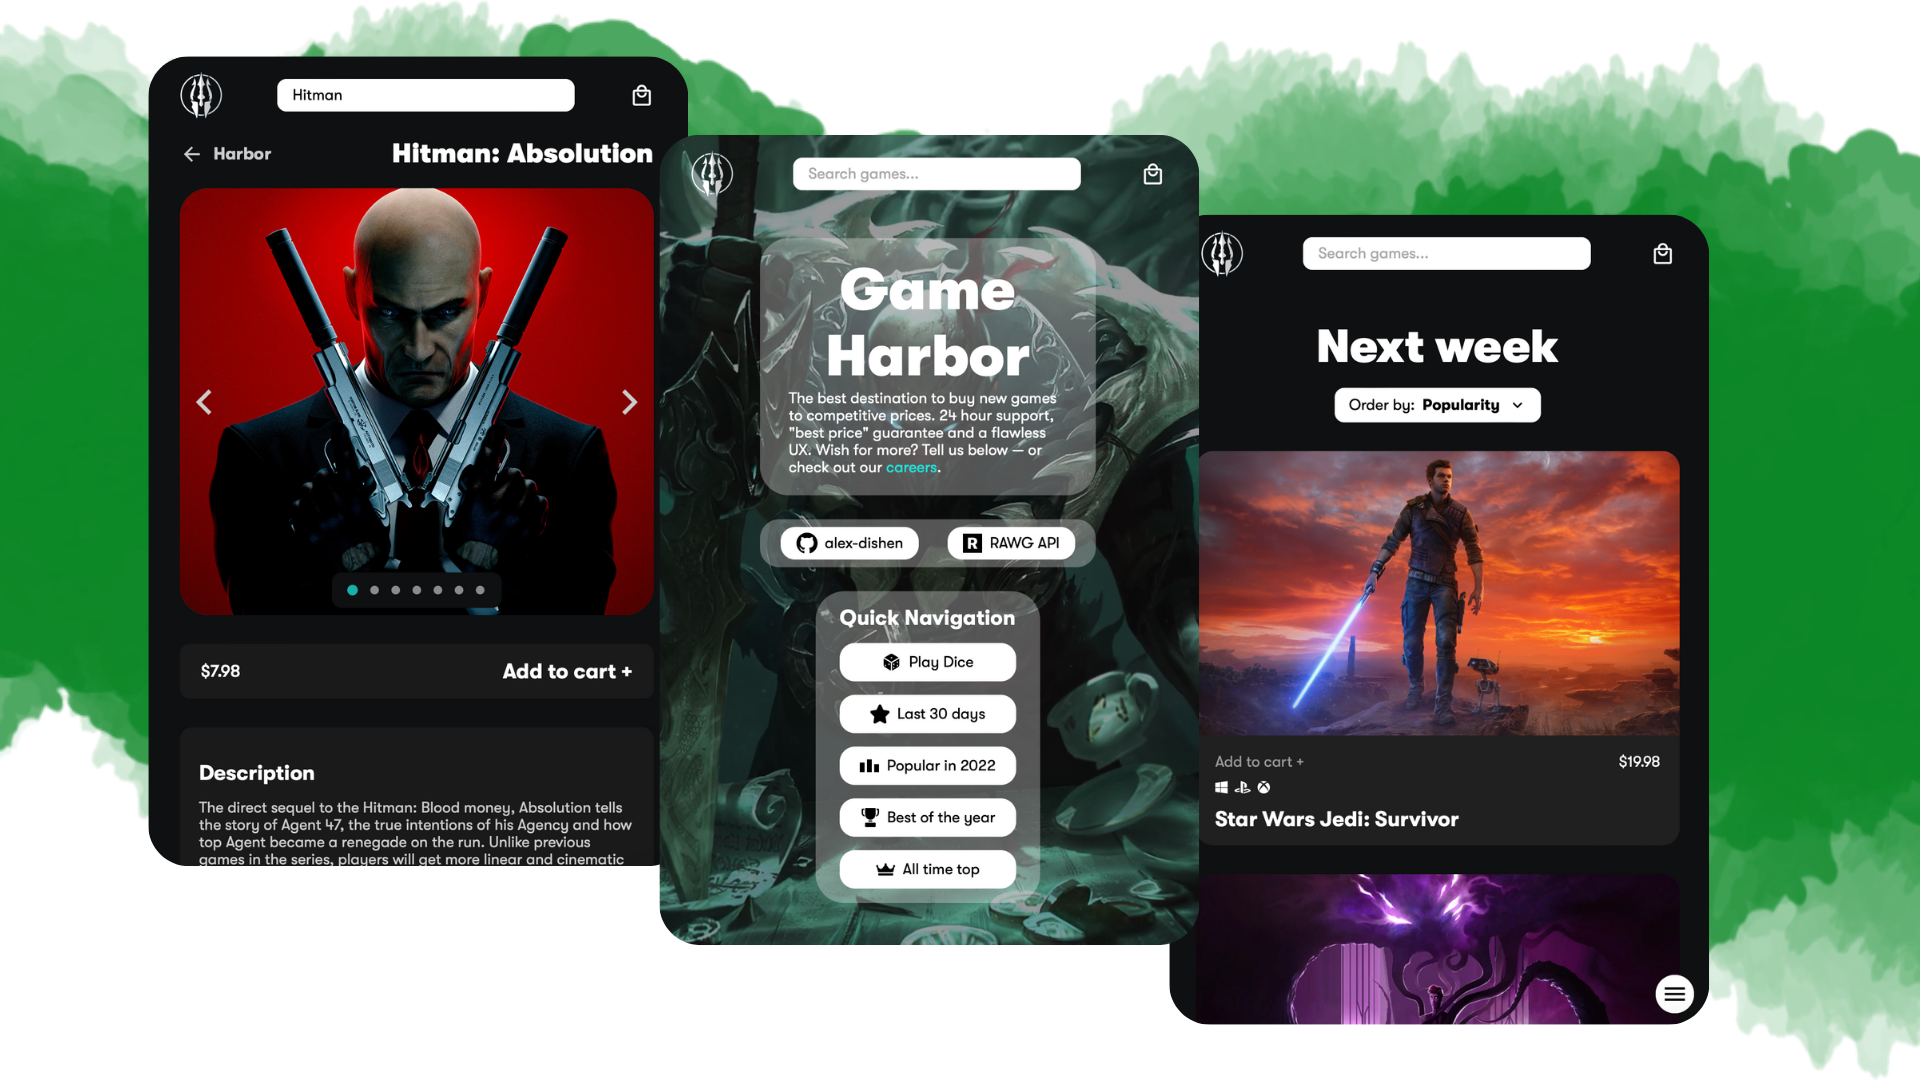
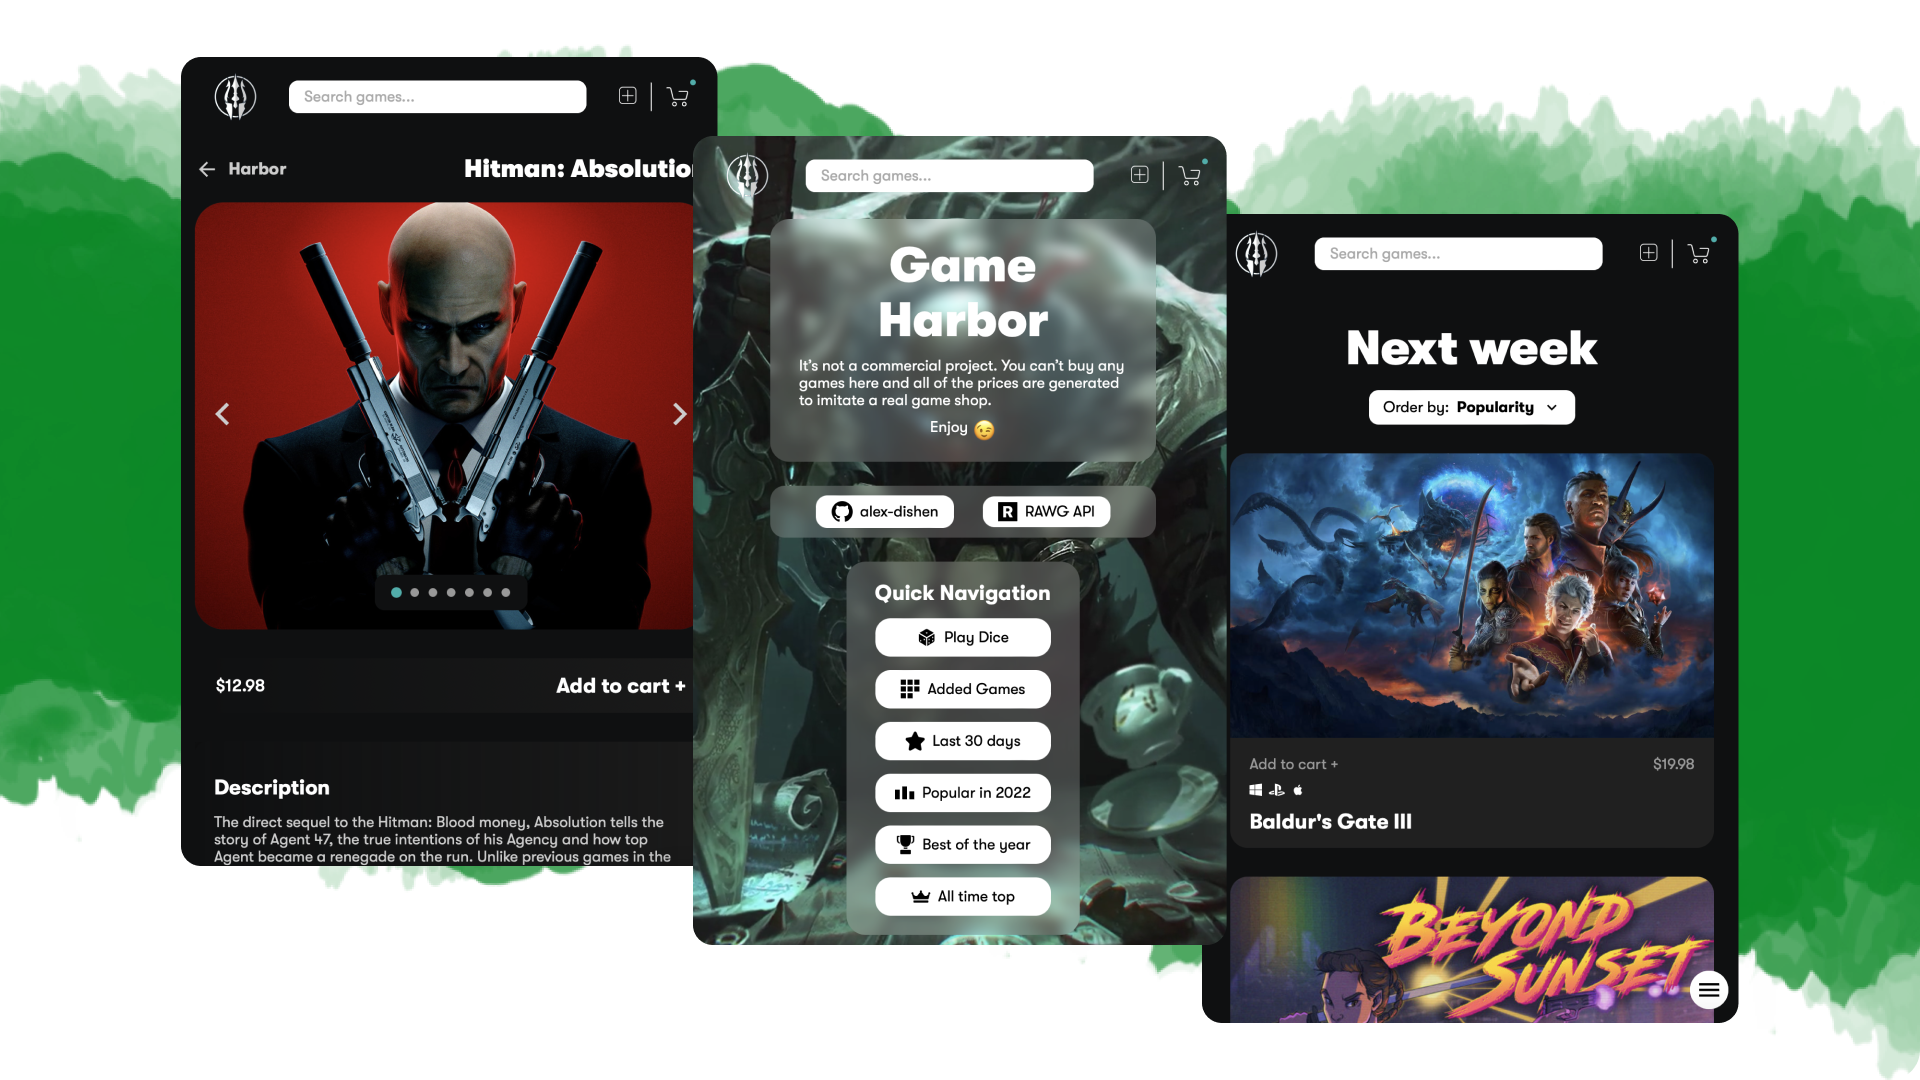
Develop (#43)
* Update project README

* Change pictures

diff --git a/README.md b/README.md
@@ -30,30 +30,100 @@
 
 - Extensive catalog of games thanks to the [RAWG API](https://rawg.io/apidocs).
 - Search any game you want.
-- Games information and screenshots.
+- Game information and screenshots.
 - Responsive design.
 - Filters to find exact genre or release period.
 - Cart for games user wants to 'buy'
+- Custom API to store and display missing games
 
 </br>
 
 <h2>Screenshots</h2>
 
-![](images/home-page.webp)
-![](images/games-page.webp)
-![](images/game-page.webp)
+![](images/home-page.png)
+![](images/games-page.png)
+![](images/game-page.png)
+![](images/add-game-page.png)
 
 </br>
 
 <h2>Custom API endpoints</h2>
 
-</br>
-
-<h2>Request/Response Examples</h2>
-
 Here are some examples of request and response payloads for the endpoints:
 
 1. **GET** ```/games```
+
+- Request: nothing to provide
+
+- Response:
+```json
+[
+  {
+    "id": "cd196746-4bec-4199-8198-881eabe61233",
+    "name": "Memory Card",
+    "background_image": "https://raw.githubusercontent.com/alex-dishen/alex-dishen/main/img/memory-card.png",
+    "description_raw": "Welcome to the 'Mystery Shack Memory Quest' a delightful memory game set in the Gravity Falls universe. Test your memory and observation skills as you uncover matching pairs of cards. Flip over cards, find matches, and avoid clicking on the same card twice. Enjoy Gravity Falls-themed artwork and catchy background music, immersing yourself in the mystery of the town.",
+    "released": "2022-12-10",
+    "parent_platforms": ["PC", "iOS"],
+    "genres": ["Puzzle"],
+    "publishers": ["Oleksandr Didyshen"],
+    "developers": ["Oleksandr Didyshen"],
+    "website": "https://alex-dishen.github.io/memory-card/",
+  }
+  {
+    "id": "cd196746-4bec-4199-8198-881efbe61233",
+    ...
+  }
+  ...
+]
+```
+
+2. **POST** ```/games```
+
+- Request:
+
+```json
+{
+{
+    "name": "Aliens: Dark Descent",
+    "background_image": "https://i.ytimg.com/vi/eWgYo55oOQk/maxresdefault.jpg",
+    "description_raw": "In Aliens: Dark Descent, command a squad of hardened Colonial Marines to stop a terrifying Xenomorph outbreak on Moon Lethe. Lead your soldiers in real-time combat against iconic Xenomorphs, rogue operatives from the insatiable Weyland-Yutani Corporation, and a host of horrifying creatures new to the Alien franchise. You are the commander. They are your weapon. Infiltrate large open levels and annihilate enemies with your squad, dispatching orders strategically and intuitively at the touch of a button. Tread carefully, as your foes will adapt their tactics to your actions while hunting you down because death is permanent. Forge unique paths for survival, uncovering shortcuts, creating safe zones, and setting up motion trackers in a persistent world where your actions impact levels forever. Customize your squad with a selection of different classes. Level up and specialize your soldiers with unique abilities and an arsenal of weapons, armor, and perks, for high stakes missions in treacherous territory. Develop your base to research new tech and improve your squad even further. Manage your resources wisely and take calculated risks to outsmart the deadliest creature mankind has ever faced. Can you and your squad stop the outbreak before it’s too late? • Face off in a gripping original Alien story against iconic Xenomorph creatures ranging from Facehuggers to Praetorians, Alien Queens and many more, including rogue human commandos and a brand-new threat unique to this Alien storyline • Lead strategically and change squad tactics from mission to mission, carefully managing your soldiers’ health, resources, and sanity, to avoid permanent team losses and mental breakdowns • Forge unique paths for survival in a persistent world, uncovering shortcuts, creating safe zones and setting up motion trackers to stay one step ahead of these creatures • Assemble and level up squads composed of 5 starting Marines classes, with dozens of specializations, unique abilities and weapons.",
+    "released": "2022-02-15",
+    "platforms": ["PC", "PlayStation 5", "Xbox Series S/X", "PlayStation", 4, "Xbox", "One"],
+    "genres": ["Action", "Strategy"],
+    "publishers": ["Focus Entertainment"],
+    "developers": ["Tindalos Interactive"],
+    "website": "https://www.focus-entmt.com/games/aliens-dark-descent"
+}
+}
+```
+
+- Response:
+```json
+[{
+    "name": "Aliens: Dark Descent",
+    "background_image": "https://i.ytimg.com/vi/eWgYo55oOQk/maxresdefault.jpg",
+    "description_raw": "In Aliens: Dark Descent, command a squad of hardened Colonial Marines to stop a terrifying Xenomorph outbreak on Moon Lethe. Lead your soldiers in real-time combat against iconic Xenomorphs, rogue operatives from the insatiable Weyland-Yutani Corporation, and a host of horrifying creatures new to the Alien franchise. You are the commander. They are your weapon. Infiltrate large open levels and annihilate enemies with your squad, dispatching orders strategically and intuitively at the touch of a button. Tread carefully, as your foes will adapt their tactics to your actions while hunting you down because death is permanent. Forge unique paths for survival, uncovering shortcuts, creating safe zones, and setting up motion trackers in a persistent world where your actions impact levels forever. Customize your squad with a selection of different classes. Level up and specialize your soldiers with unique abilities and an arsenal of weapons, armor, and perks, for high stakes missions in treacherous territory. Develop your base to research new tech and improve your squad even further. Manage your resources wisely and take calculated risks to outsmart the deadliest creature mankind has ever faced. Can you and your squad stop the outbreak before it’s too late? • Face off in a gripping original Alien story against iconic Xenomorph creatures ranging from Facehuggers to Praetorians, Alien Queens and many more, including rogue human commandos and a brand-new threat unique to this Alien storyline • Lead strategically and change squad tactics from mission to mission, carefully managing your soldiers’ health, resources, and sanity, to avoid permanent team losses and mental breakdowns • Forge unique paths for survival in a persistent world, uncovering shortcuts, creating safe zones and setting up motion trackers to stay one step ahead of these creatures • Assemble and level up squads composed of 5 starting Marines classes, with dozens of specializations, unique abilities and weapons.",
+    "released": "2022-02-15",
+    "platforms": ["PC", "PlayStation 5", "Xbox Series S/X", "PlayStation", 4, "Xbox", "One"],
+    "genres": ["Action", "Strategy"],
+    "publishers": ["Focus Entertainment"],
+    "developers": ["Tindalos Interactive"],
+    "website": "https://www.focus-entmt.com/games/aliens-dark-descent"
+}]
+```
+
+3. **DELETE** ```/games/:id```
+
+- Request:
+
+```json
+{
+  "id": "cd196746-4bec-4199-8198-881eabe61233",
+}
+```
+
+- Response: nothing to provide
 
 </br>
 
